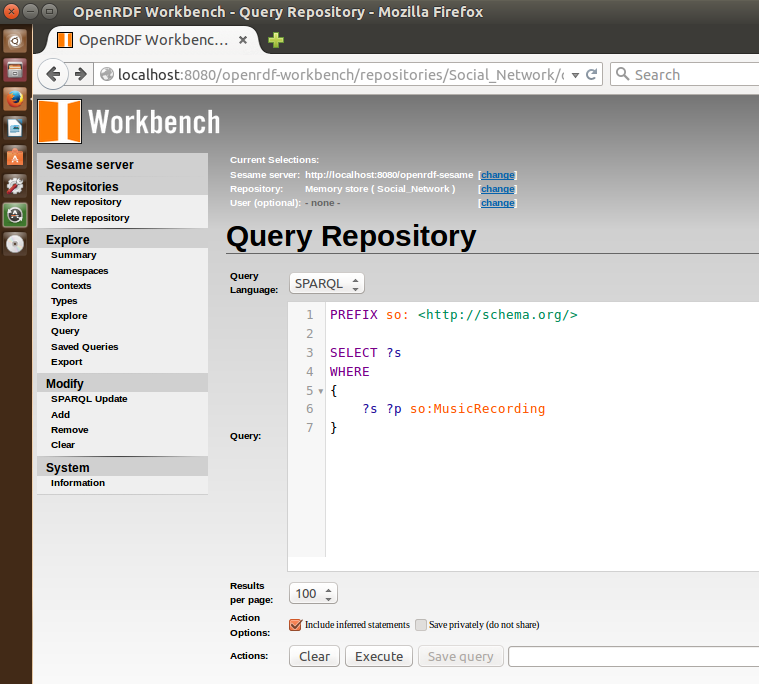
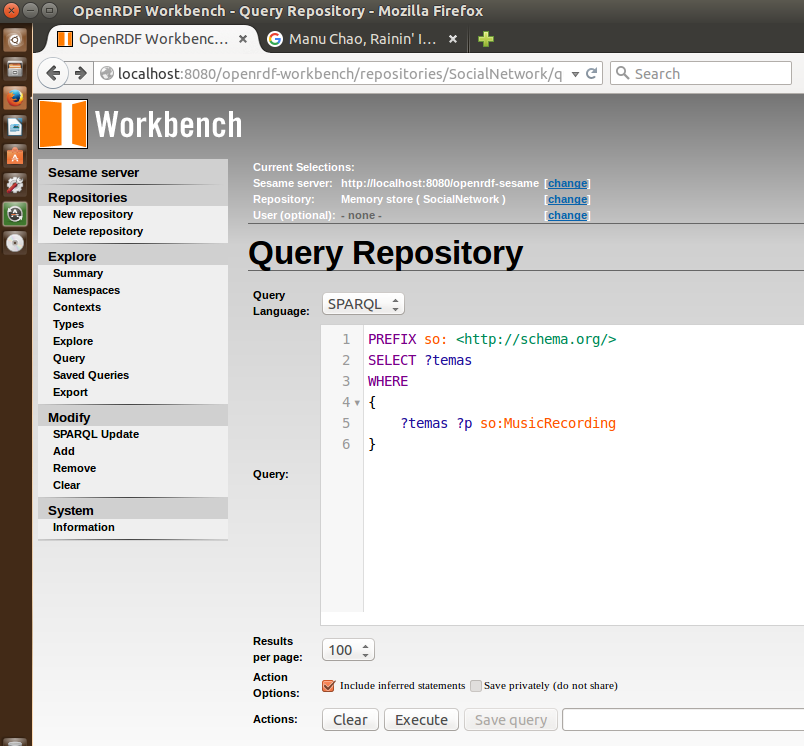
avance

Changed region(s): [[0.0, 0.0, 1.0, 1.0], [0.303, 0.8289, 0.7879, 0.9825], [0.303, 0.614, 0.3636, 0.6447]]

diff --git a/project.md b/project.md
@@ -92,8 +92,9 @@ En la ventana del navegador con openrdf-workbench de nuestro servidor local:
     - En la pantalla de listado que se abre, seleccionar el repositorio "SocialNetwork".
 
 - Pulsar en el menú "Modify > Add" y en el nuevo formulario
-    - Seleccionar:
+    - Seleccionar / escribir:
         - RDF Data File: ... buscar y seleccionar el fichero "ManuChao.n3" descargado anteriormente...
+        - Base URI: http://ciff.curso2015/ontologies/owl/socialNetwork#instancia2
         - Data format: N3
 - Pulsar el botón [Upload]
 
@@ -105,6 +106,15 @@ En la ventana del navegador con openrdf-workbench de nuestro servidor local:
 
 ![Sumario SocialNetwork](images/SocialNetworkCarga2B.png)
 
+- Para comprobar la operación ralizada, pulsar en el menú "Explore" y en el nuevo formulario:
+    - Escribir:
+        - Resource: sn:instancia2
+    - Pulsar [Enter]
+
+- El listado mostrado es el siguiente:
+
+![Consulta sn:instancia2](images/SocialNetworkCarga2C.png)
+
 ### 3.4) Consultar información de los "MusicRecording" en el repositorio enriquecido:
 
 En la ventana del navegador con openrdf-workbench de nuestro servidor local:
@@ -114,10 +124,10 @@ En la ventana del navegador con openrdf-workbench de nuestro servidor local:
 ```
             PREFIX so: <http://schema.org/>
 
-            SELECT ?s
+            SELECT ?temas
             WHERE
             {
-            	?s ?p so:MusicRecording
+            	?Temas ?p so:MusicRecording
             }
 ```
 
@@ -127,7 +137,9 @@ En la ventana del navegador con openrdf-workbench de nuestro servidor local:
 
 ![MusicRecording Result](images/MusicRecordingResult.png)
 
+- Y si pulsamos en uno de los links, podremos acceder a la información del tema correspondiente:
 
+![MusicRecording Result](images/MusicRecordingResultOne.png)
 
 
  
